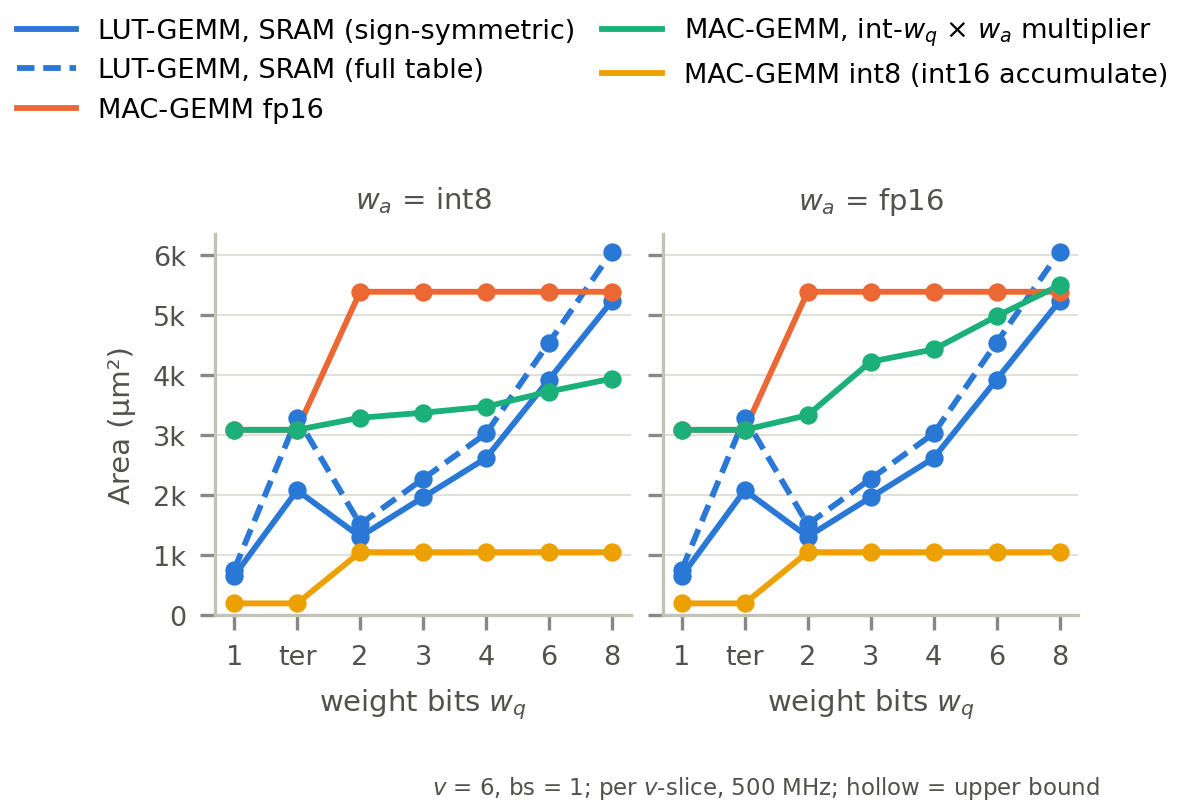
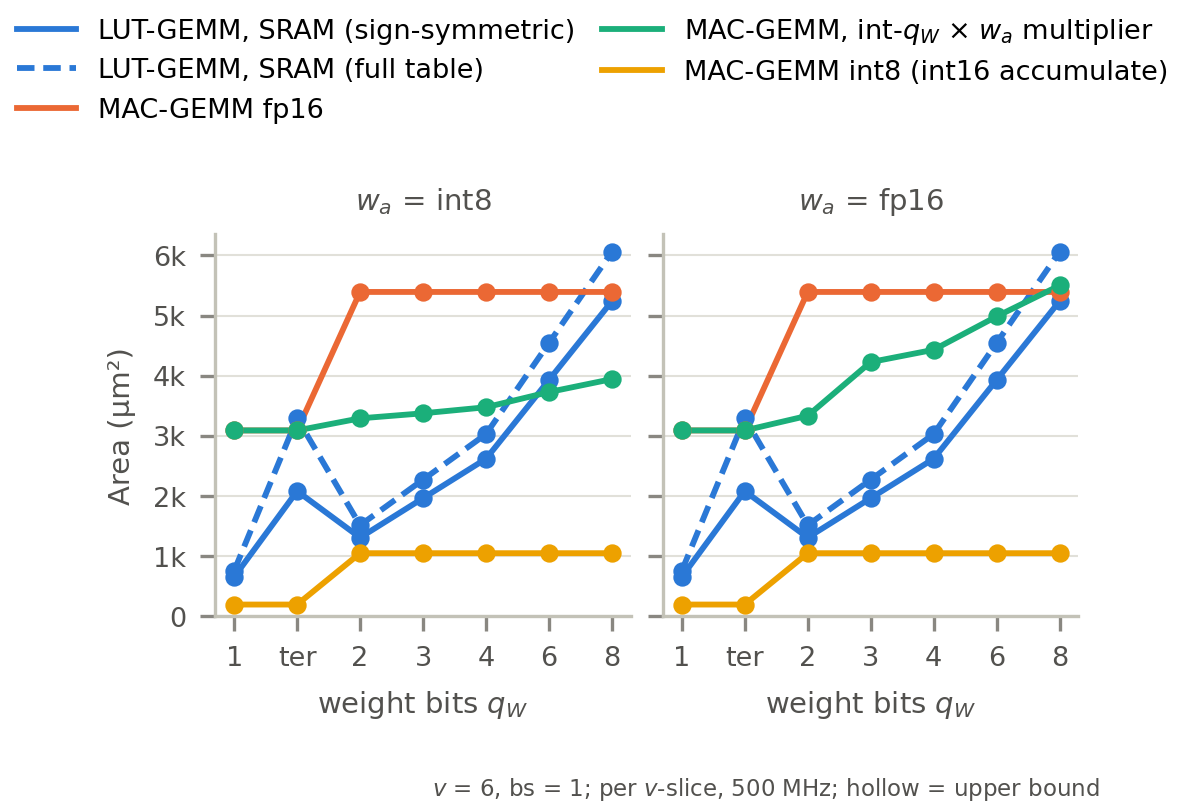
hardware: LUT-section figures use the owner's notation (v, q_W)
Owner's decision (2026-10-23): v = vector length (mu in FIGLUT), q_W = weight bit-width
(q in FIGLUT). Fig. 2's x-axis and legend now say q_W instead of w_q; fig. 1's script
names the weight bit-width QW instead of MU (nothing drawn changes).

Verified: both figures re-rendered; fig. 2 inspected.

diff --git a/hardware/mac_lut_tradeoff/03-lut-section-figures/fig1_bitsplit_to_lut.py b/hardware/mac_lut_tradeoff/03-lut-section-figures/fig1_bitsplit_to_lut.py
@@ -1,18 +1,19 @@
-# Fig. 1: from bit-splitting MAC-GEMM to LUT-GEMM, on a toy tile: v = 2 activations,
-# mu = 4-bit weights, N = 6 output columns. (a) the weights split into bit-planes; (b) the
-# bit-serial GEMM forms one partial sum per (plane, column) and recomputes x0 + x1 every time
-# both bits are set; (c) the 2^v distinct sums, precomputed once; (d) LUT-GEMM looks them up
-# and shift-adds over the planes. Everything drawn is computed from W below.
+# Fig. 1: from bit-splitting MAC-GEMM to LUT-GEMM, on a toy tile: v = 2 activations (vector
+# length; mu in FIGLUT), q_W = 4-bit weights (q in FIGLUT), N = 6 output columns. (a) the
+# weights split into bit-planes; (b) the bit-serial GEMM forms one partial sum per (plane,
+# column) and recomputes x0 + x1 every time both bits are set; (c) the 2^v distinct sums,
+# precomputed once; (d) LUT-GEMM looks them up and shift-adds over the planes. Everything
+# drawn is computed from W below.
 # Usage: python3 fig1_bitsplit_to_lut.py   ->  fig1_bitsplit_to_lut.{pdf,png}
 from matplotlib.patches import FancyArrowPatch, Rectangle
 
 from figstyle import INK, INK_2, MUTED, NEUTRAL_FILL, SERIES, plt, save
 
-V, MU = 2, 4
+V, QW = 2, 4
 W = [[13, 7, 10, 15, 6, 9],   # weights that multiply x0
      [11, 7, 12, 13, 3, 14]]  # weights that multiply x1
 N = len(W[0])
-PLANES = list(range(MU - 1, -1, -1))  # b = 3 (MSB) at the top
+PLANES = list(range(QW - 1, -1, -1))  # b = 3 (MSB) at the top
 
 # pattern (bit of w0, bit of w1) -> partial sum and fill
 SUM = {(0, 0): '0', (1, 0): '$x_0$', (0, 1): '$x_1$', (1, 1): '$x_0{+}x_1$'}
@@ -50,7 +51,7 @@ def grid(x0, y_top, label_of, cw, col_labels=False):
     if col_labels:
         for n in range(N):
             ax.text(x0 + (n + 0.5) * cw, y_top + 0.4, f'$n{n}$', ha='center', va='bottom', fontsize=6, color=MUTED)
-    return y_top - MU * CH
+    return y_top - QW * CH
 
 
 def text(x, y, s, size=6.5, color=INK_2, **kw):
@@ -72,13 +73,13 @@ def bits(b, n):
 # ---- row 1: (a) weights and bit-planes, (b) the partial sums ----------------------------
 XA, XB = 5.0, 52.0
 head(0.3, 55.5, '(a) Bit-splitting MAC-GEMM')
-text(0.3, 52.6, f'activations $x = (x_0, x_1)$, $v$ = {V}; {MU}-bit weights, $N$ = {N} columns',
+text(0.3, 52.6, f'activations $x = (x_0, x_1)$, $v$ = {V}; {QW}-bit weights, $N$ = {N} columns',
      size=6, va='top')
 for k in range(V):
     text(XA - 0.6, 48.4 - (k + 0.5) * CH, f'$w_{{{k},n}}$', ha='right', va='center')
     for n in range(N):
         cell(XA + n * CW_BITS, 48.4 - (k + 1) * CH, str(W[k][n]))
-text(XA, 42.4, f'$\\downarrow$ split into {MU} bit-planes', size=6, va='top')
+text(XA, 42.4, f'$\\downarrow$ split into {QW} bit-planes', size=6, va='top')
 G1 = 39.6
 bottom_a = grid(XA, G1, bits, CW_BITS)
 text(XA, bottom_a - 0.6, 'cell: bit of $w_{0,n}$, bit of $w_{1,n}$', size=6, color=MUTED, va='top')
@@ -89,7 +90,7 @@ arrow((XA + N * CW_BITS + 13.4, G1 - 2 * CH), (XB - 3.6, G1 - 2 * CH))
 head(XB - 3.6, 55.5, '(b) The partial sums repeat')
 text(XB - 3.6, 52.6, 'each cell: $x_0 w^{(b)}_{0,n} + x_1 w^{(b)}_{1,n}$', size=6, va='top')
 text(XB - 3.6, 48.6,
-     f'{MU * N} partial sums, but only $2^v$ = {2 ** V} distinct values:\n'
+     f'{QW * N} partial sums, but only $2^v$ = {2 ** V} distinct values:\n'
      f'$x_0{{+}}x_1$ is added again in {repeats} cells', size=6.5, color=INK, va='top')
 bottom_b = grid(XB, G1, lambda b, n: SUM[pats[(b, n)]], CW_SUM, col_labels=True)
 
@@ -102,7 +103,7 @@ for i, p in enumerate([(0, 0), (0, 1), (1, 0), (1, 1)]):
     y = 19.0 - (i + 1) * CH
     cell(XC, y, f'{p[0]}{p[1]}', p)
     cell(XC + CW_BITS, y, SUM[p], p, w=6.6)
-text(XC + 11.6, 19.0 - 2 * CH, f'$2^v$ = {2 ** V} entries,\nbuilt with 1 add,\nread by all {MU * N}\ncells',
+text(XC + 11.6, 19.0 - 2 * CH, f'$2^v$ = {2 ** V} entries,\nbuilt with 1 add,\nread by all {QW * N}\ncells',
      size=6.5, color=INK, va='center')
 arrow((XC + 24.0, 19.0 - 2 * CH), (XD - 3.6, 19.0 - 2 * CH))
 
@@ -115,7 +116,7 @@ for n in range(N):
     cell(XD + n * CW_BITS, bottom_d - 1.4 - CH, f'$y_{n}$')
 text(XD + N * CW_BITS + 3.0, G2 - 2 * CH,
      r'$y_n = \sum_b \, 2^b \cdot \mathrm{LUT}[\,w^{(b)}_{0,n} w^{(b)}_{1,n}\,]$' '\n\n'
-     f'{MU * N} lookups and shift-adds:\nno multiplies, no repeated sums',
+     f'{QW * N} lookups and shift-adds:\nno multiplies, no repeated sums',
      size=6.5, color=INK, va='center')
 
 # (b) -> (c): the distinct values of (b) become the LUT

diff --git a/hardware/mac_lut_tradeoff/03-lut-section-figures/fig2_mac_vs_lut_sram.py b/hardware/mac_lut_tradeoff/03-lut-section-figures/fig2_mac_vs_lut_sram.py
@@ -19,7 +19,7 @@ YELLOW = '#eda100'  # categorical slot 4, after figstyle's three
 SHOWN = [('LUT SRAM dup, pre-ignore+symm', 'LUT-GEMM, SRAM (sign-symmetric)', SERIES[0], False),
          ('LUT SRAM dup, pre-ignore', 'LUT-GEMM, SRAM (full table)', SERIES[0], True),
          ('MAC fp16', 'MAC-GEMM fp16', SERIES[1], False),
-         ('MAC opt', 'MAC-GEMM, int-$w_q$ × $w_a$ multiplier', SERIES[2], False),
+         ('MAC opt', 'MAC-GEMM, int-$q_W$ × $w_a$ multiplier', SERIES[2], False),
          ('MAC int8', 'MAC-GEMM int8 (int16 accumulate)', YELLOW, False)]
 
 
@@ -54,7 +54,7 @@ def figure(metric, ylabel, name, fmt):
         ax.set_title(f'$w_a$ = {wa}', color=INK_2)
         ax.set_xticks(range(len(mt.WQ)))
         ax.set_xticklabels([w.replace('int', '') if w != 'ter' else 'ter' for w in mt.WQ])
-        ax.set_xlabel('weight bits $w_q$')
+        ax.set_xlabel('weight bits $q_W$')
         ax.set_ylim(bottom=0)
         ax.grid(axis='x', visible=False)
         ax.yaxis.set_major_formatter(FuncFormatter(fmt))
